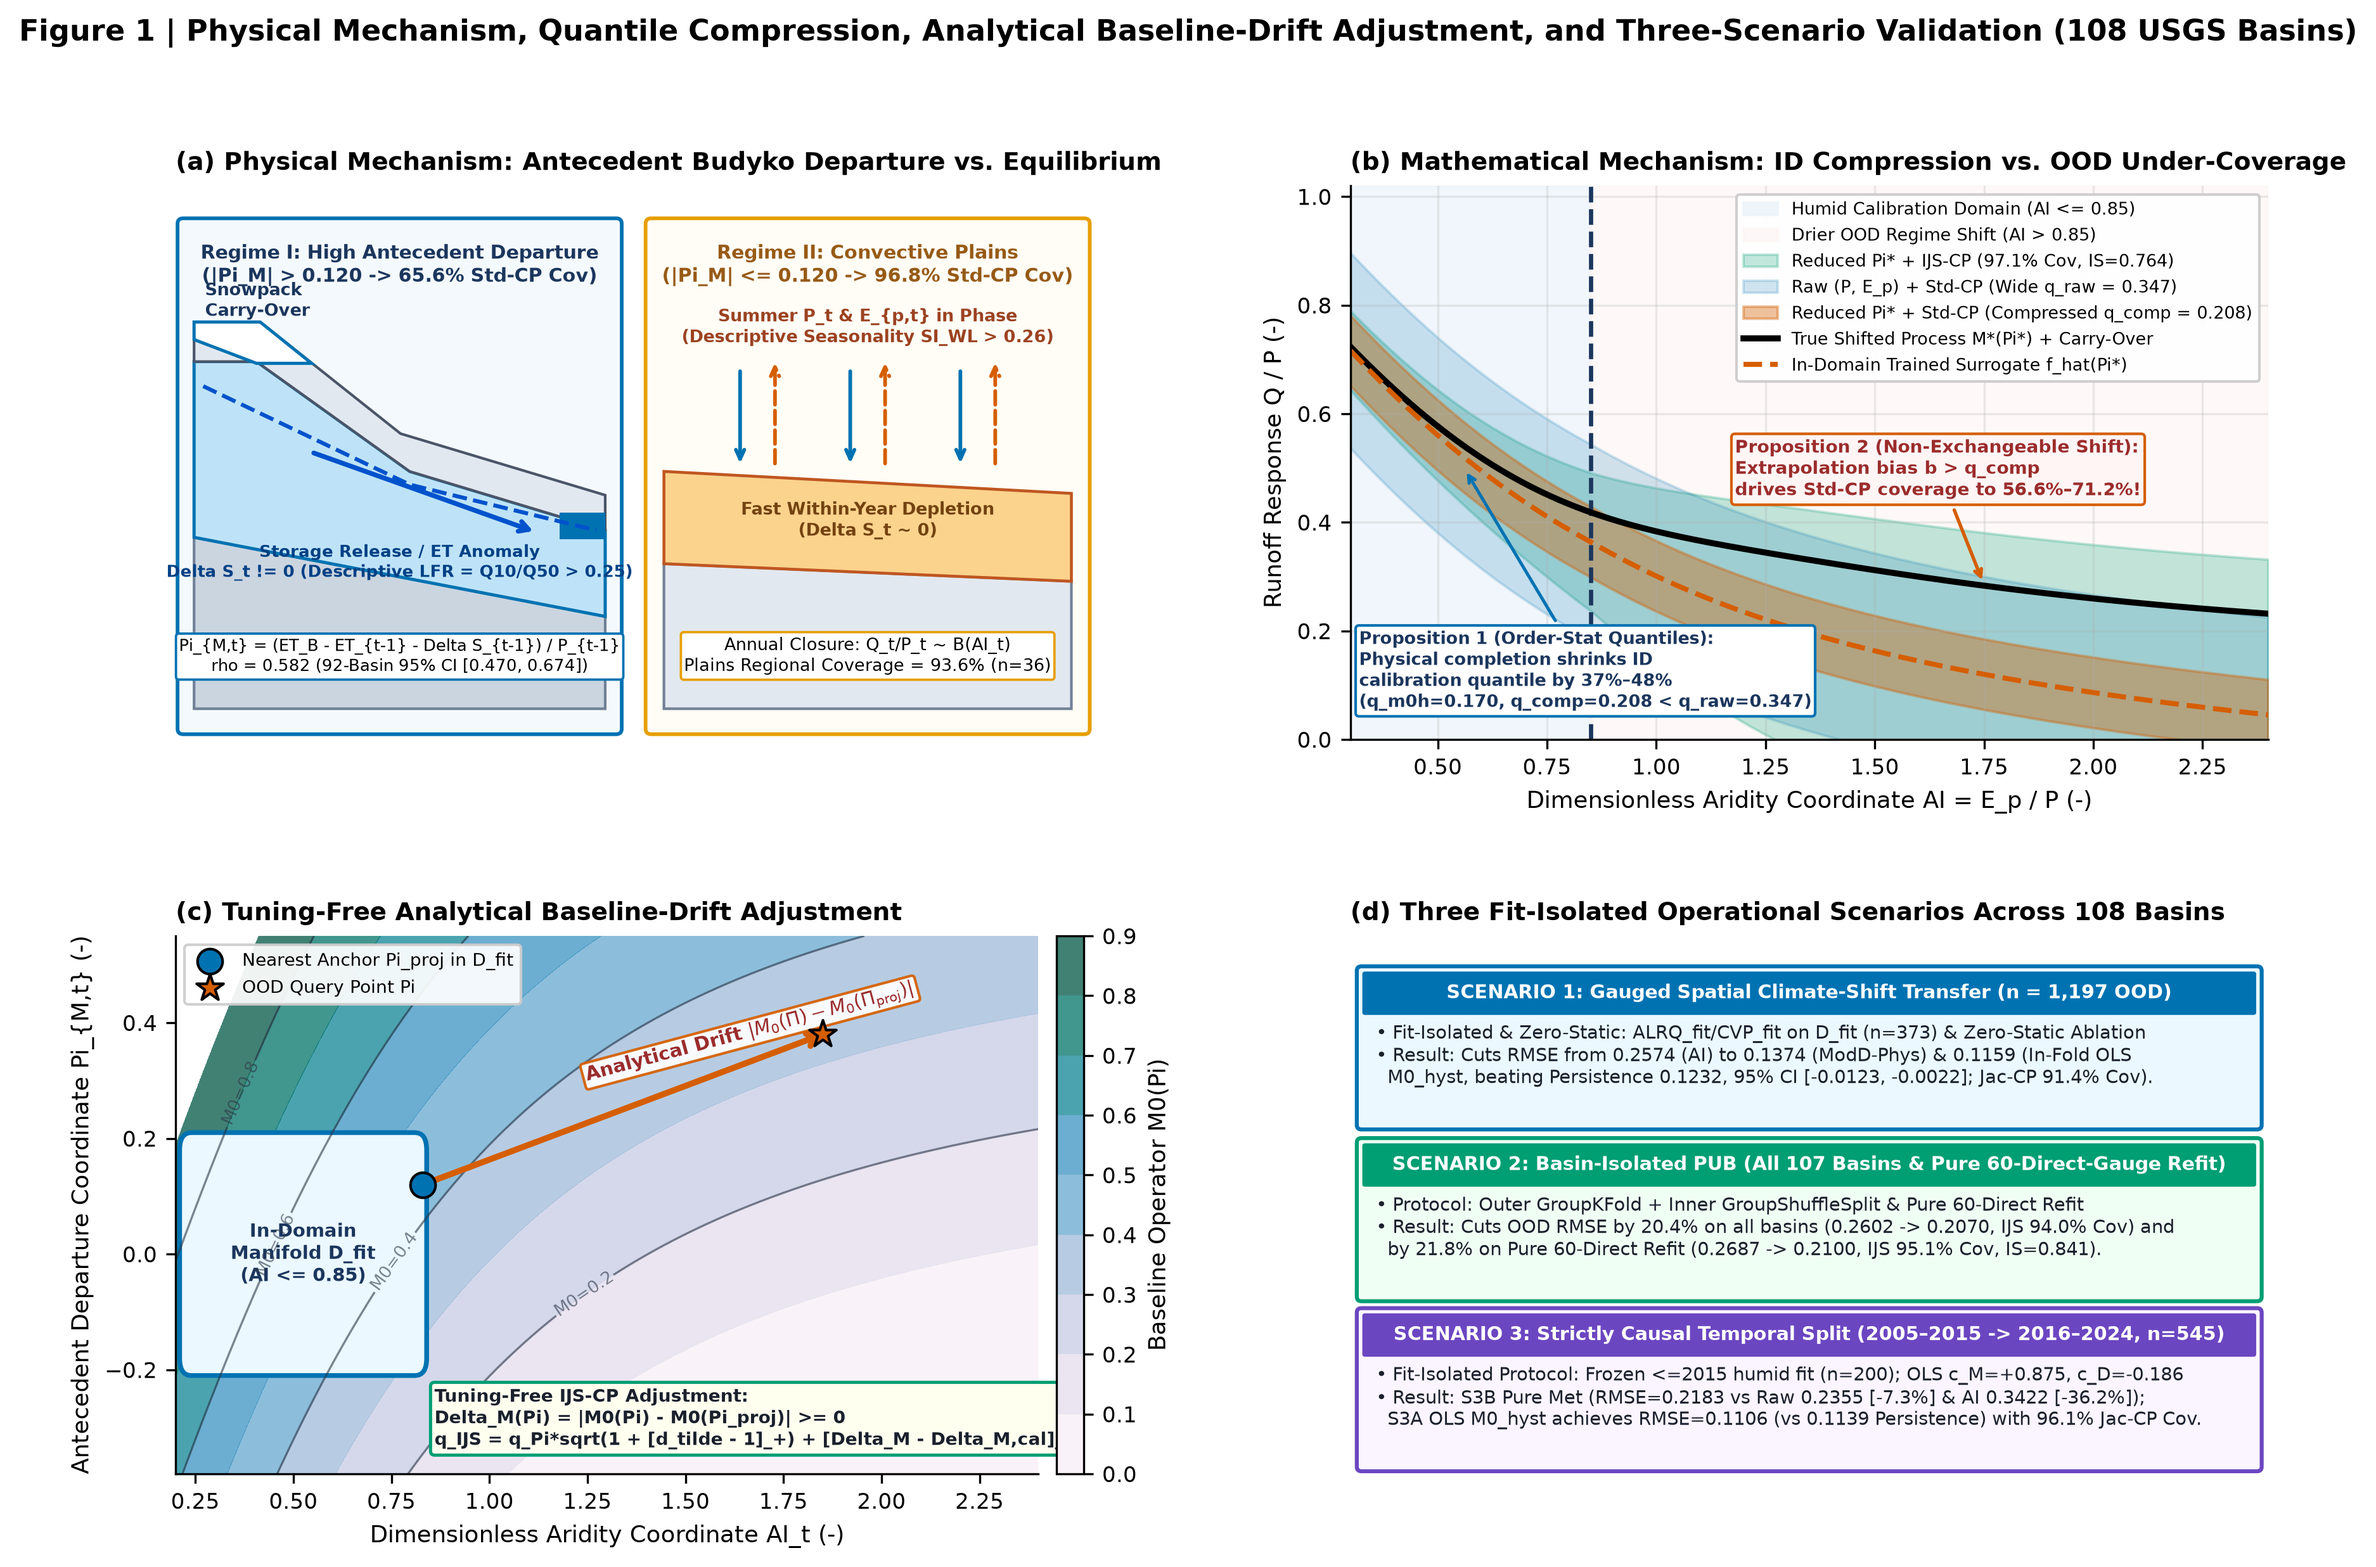
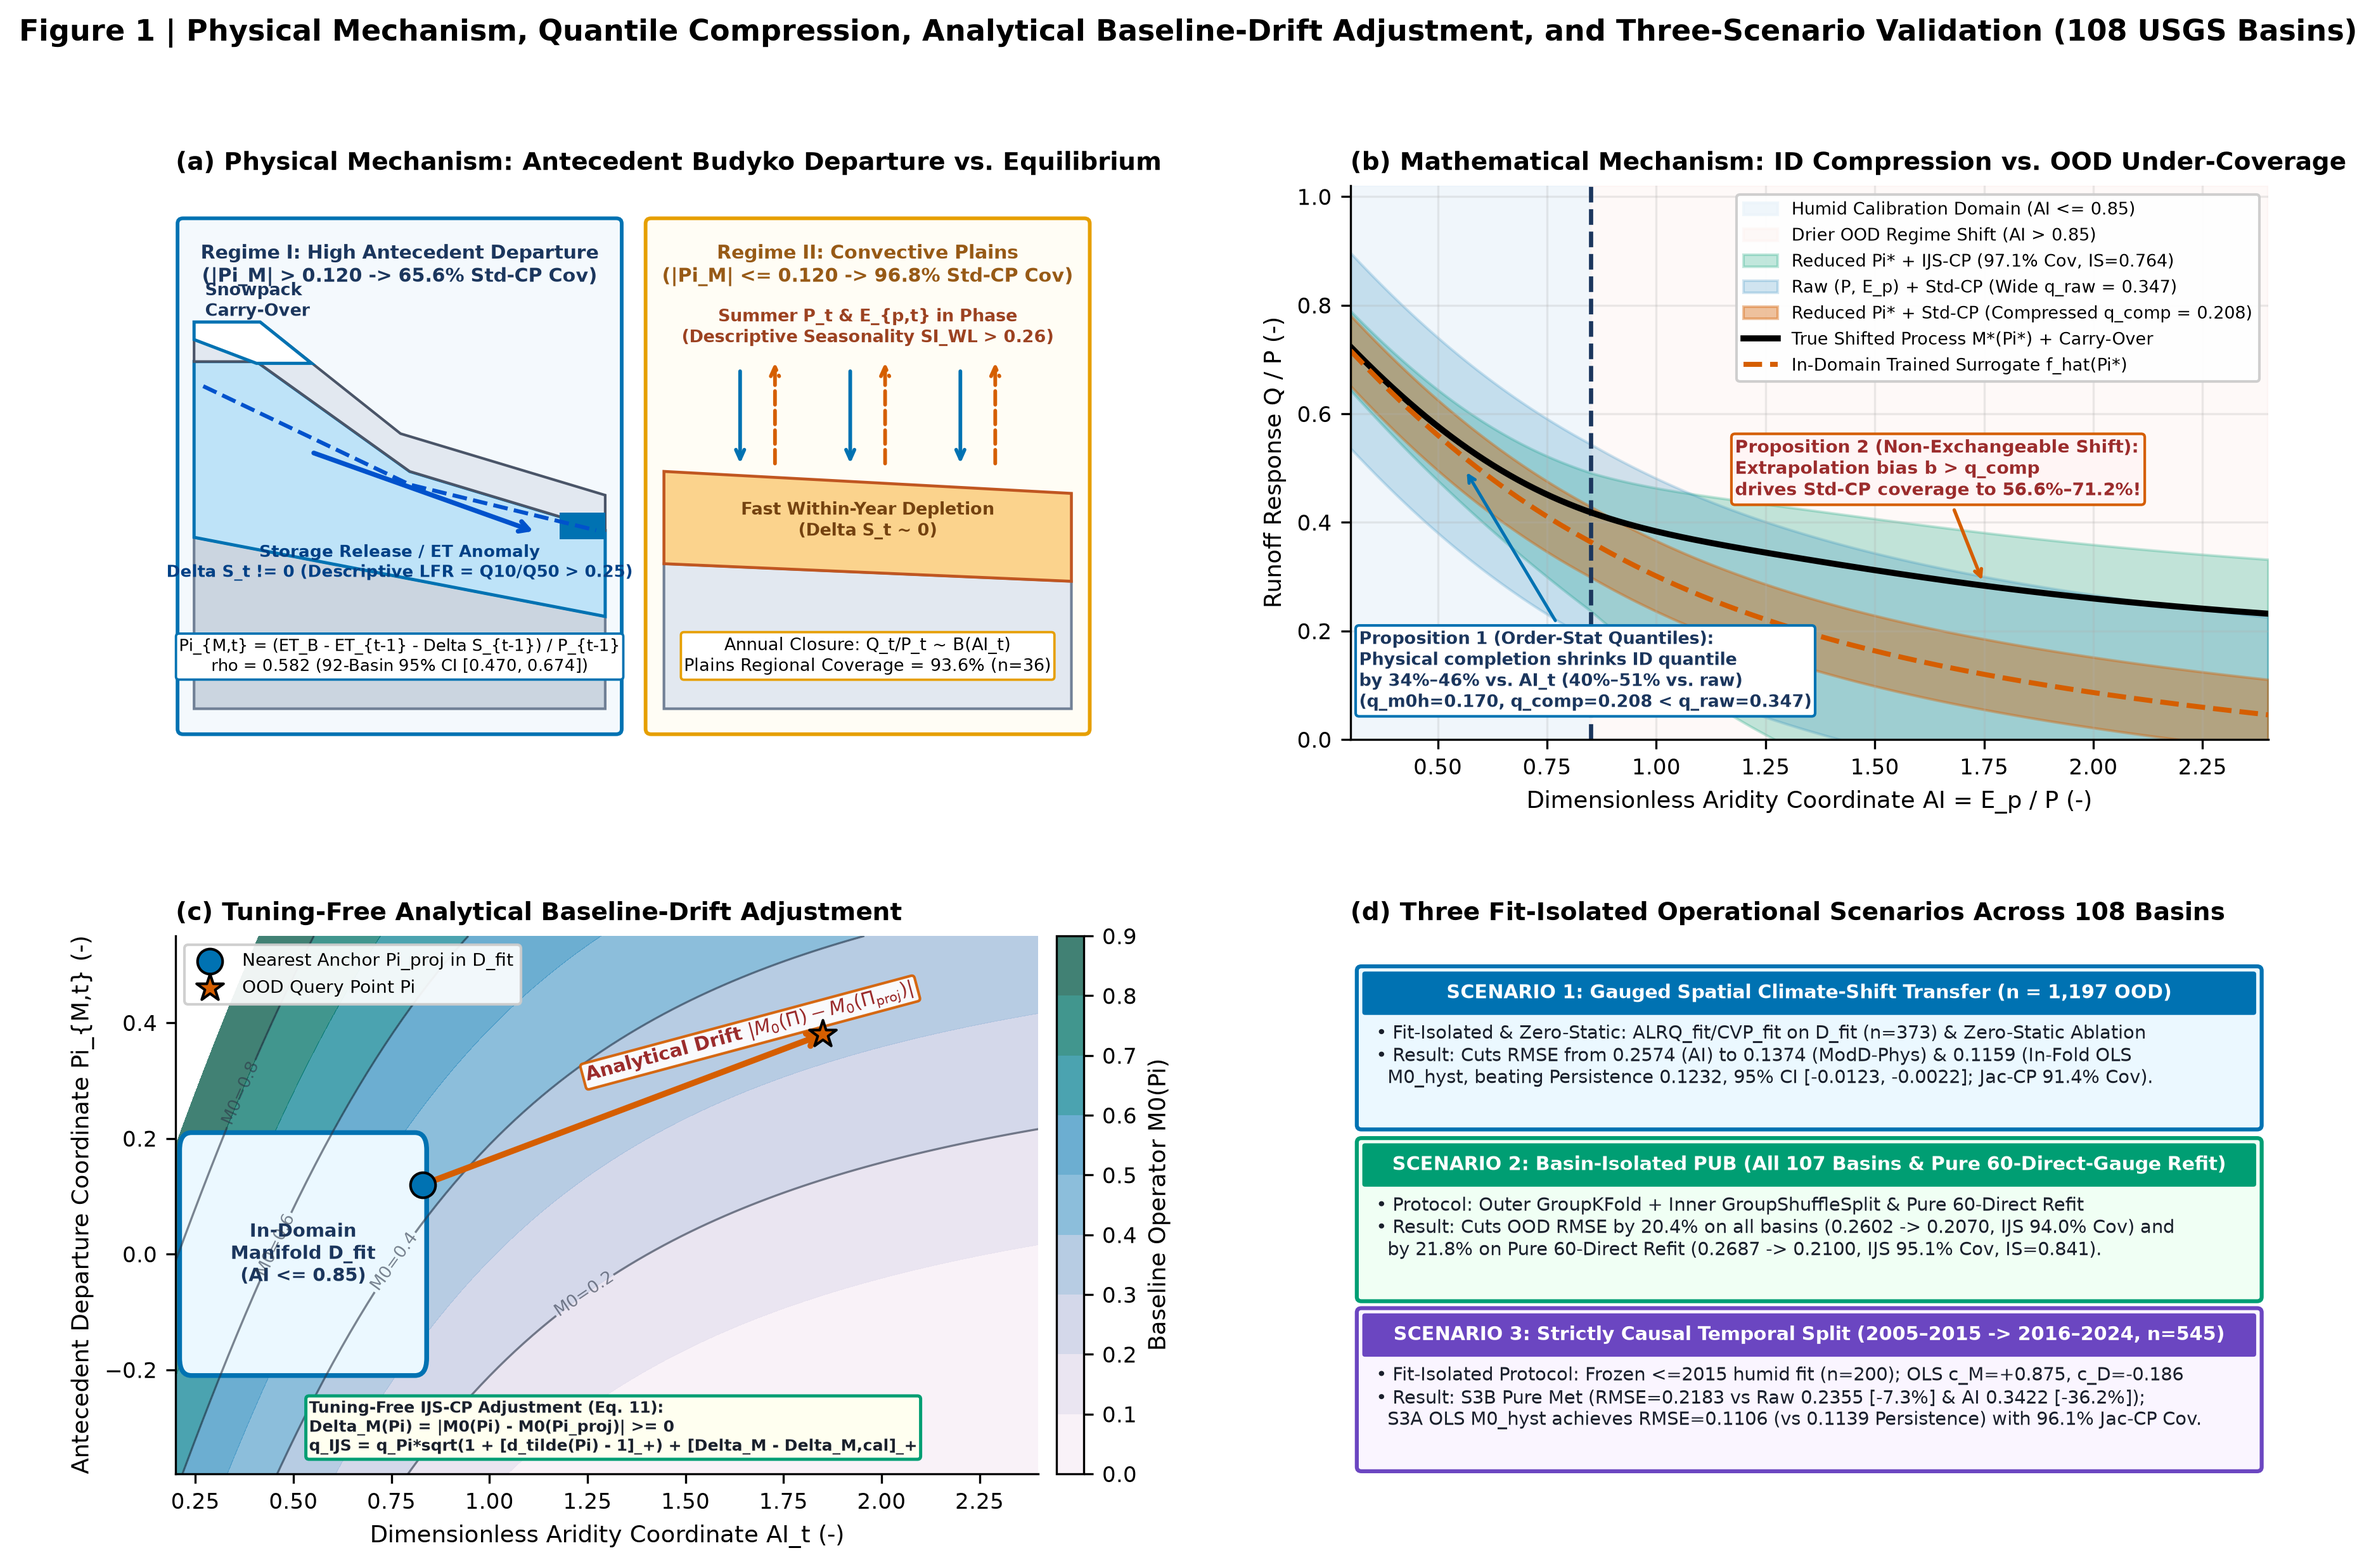
Sync Fig. 1 quantile compression label and Eq. 11 box layout

Changed region(s): [[0.1248, 0.8718, 0.4369, 0.9341], [0.593, 0.4048, 0.749, 0.4359]]

diff --git a/scripts/plot_main_figures.py b/scripts/plot_main_figures.py
@@ -135,7 +135,7 @@ def make_fig1_workflow(out_dir):
     ax_b.plot(ai_x, surrogate_curve, color=C_RED, ls="--", lw=1.9, label="In-Domain Trained Surrogate f_hat(Pi*)")
 
     ax_b.annotate(
-        "Proposition 1 (Order-Stat Quantiles):\nPhysical completion shrinks ID\ncalibration quantile by 37%–48%\n(q_m0h=0.170, q_comp=0.208 < q_raw=0.347)",
+        "Proposition 1 (Order-Stat Quantiles):\nPhysical completion shrinks ID quantile\nby 34%–46% vs. AI_t (40%–51% vs. raw)\n(q_m0h=0.170, q_comp=0.208 < q_raw=0.347)",
         xy=(0.56, surrogate_curve[42] + q_c_vis), xytext=(0.32, 0.06),
         fontsize=6.6, fontweight="bold", color=C_NAVY,
         bbox=dict(boxstyle="round,pad=0.20", facecolor="white", edgecolor=C_BLUE),
@@ -185,12 +185,12 @@ def make_fig1_workflow(out_dir):
               bbox=dict(boxstyle="round,pad=0.16", facecolor="white", edgecolor=C_RED, alpha=0.92))
 
     ax_c.text(
-        0.86, -0.33,
-        "Tuning-Free IJS-CP Adjustment:\n"
+        0.54, -0.34,
+        "Tuning-Free IJS-CP Adjustment (Eq. 11):\n"
         "Delta_M(Pi) = |M0(Pi) - M0(Pi_proj)| >= 0\n"
-        "q_IJS = q_Pi*sqrt(1 + [d_tilde - 1]_+) + [Delta_M - Delta_M,cal]_+",
-        fontsize=6.8, fontweight="bold", color="#1A202C",
-        bbox=dict(boxstyle="round,pad=0.22", facecolor="#FFFFF0", edgecolor=C_TEAL, lw=1.2)
+        "q_IJS = q_Pi*sqrt(1 + [d_tilde(Pi) - 1]_+) + [Delta_M - Delta_M,cal]_+",
+        fontsize=6.0, fontweight="bold", color="#1A202C",
+        bbox=dict(boxstyle="round,pad=0.20", facecolor="#FFFFF0", edgecolor=C_TEAL, lw=1.2)
     )
     ax_c.set_xlim(0.2, 2.4)
     ax_c.set_ylim(-0.38, 0.55)
